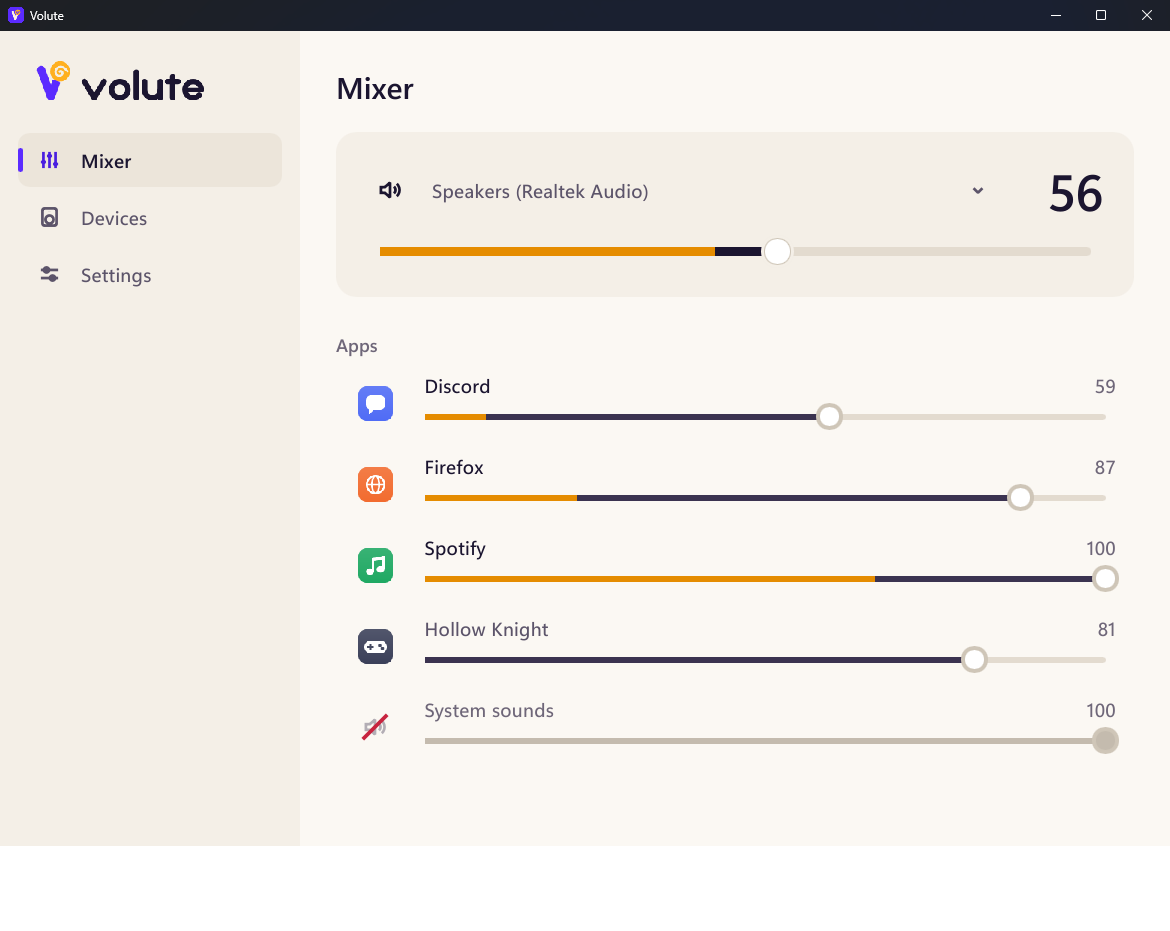
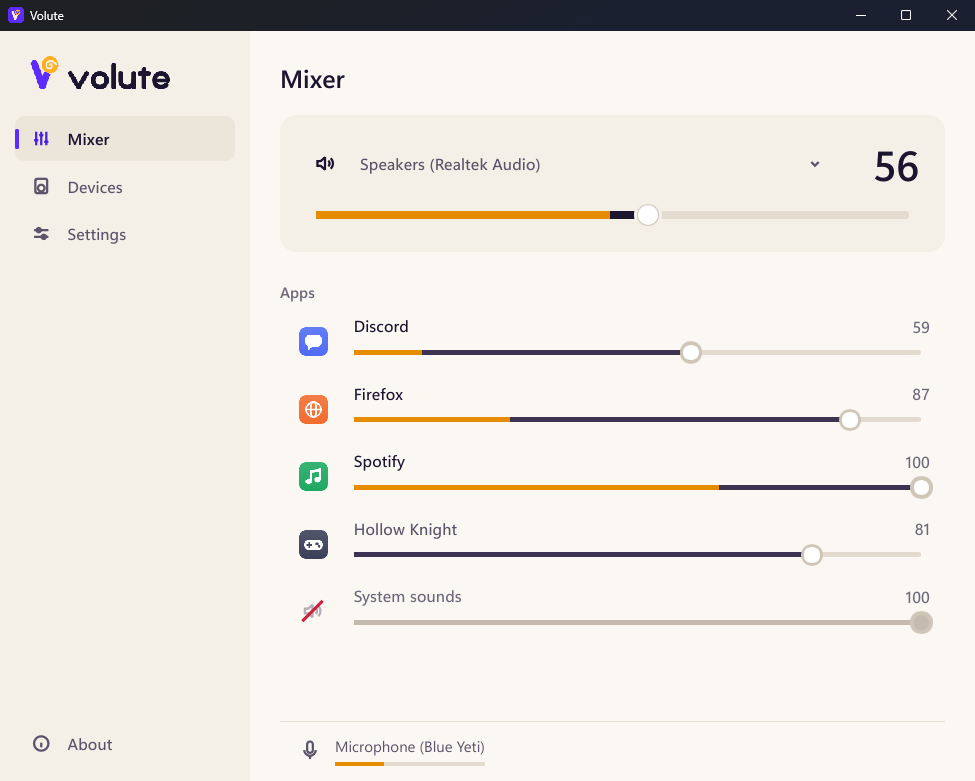
docs: design audit with a before/after board, performance audit, architecture and agent guide brought up to date; screenshots of the main window retaken at 1.25x, whole; the size figure on the site and README is the installer's 6.4 MB

diff --git a/index.html b/index.html
@@ -111,7 +111,7 @@
           </article>
         </div>
         <figure class="wide-shot">
-          <img class="shot" src="assets/main-light.png" width="1170" height="931" alt="La fenêtre principale de Volute en thème clair : un rail avec Mélangeur, Périphériques, Réglages et À propos, et la vue du mélangeur." loading="lazy">
+          <img class="shot" src="assets/main-light.png" width="975" height="781" alt="La fenêtre principale de Volute en thème clair : un rail avec Mélangeur, Périphériques, Réglages et À propos, et la vue du mélangeur." loading="lazy">
           <figcaption class="caption">La fenêtre principale : tous les périphériques, les réglages, en clair ou en sombre.</figcaption>
         </figure>
       </div>
@@ -126,7 +126,7 @@
           <div><dt>0,000&nbsp;%</dt><dd>de processeur en attente dans la zone de notification</dd></div>
           <div><dt>4&nbsp;Mo</dt><dd>de mémoire en attente</dd></div>
           <div><dt>0,12&nbsp;ms</dt><dd>pour appliquer un volume</dd></div>
-          <div><dt>6&nbsp;Mo</dt><dd>un seul exécutable, rien d'autre</dd></div>
+          <div><dt>6,4&nbsp;Mo</dt><dd>l'installateur, sans rien d'autre à installer</dd></div>
         </dl>
         <p class="note">Mesuré avec <code>cargo xtask bench-overhead</code> sur la machine de l'auteur. Mélangeur ouvert, avec les niveaux qui bougent : 2 à 4 % d'un cœur. Les chiffres et la méthode sont dans le <a href="https://github.com/EvanPluchart/volute/blob/main/docs/ARCHITECTURE.md">document d'architecture</a>.</p>
       </div>

diff --git a/en/index.html b/en/index.html
@@ -111,7 +111,7 @@
           </article>
         </div>
         <figure class="wide-shot">
-          <img class="shot" src="../assets/en/main-light.png" width="1170" height="931" alt="Volute's main window in the light theme: a rail with Mixer, Devices, Settings and About, and the mixer view." loading="lazy">
+          <img class="shot" src="../assets/en/main-light.png" width="975" height="781" alt="Volute's main window in the light theme: a rail with Mixer, Devices, Settings and About, and the mixer view." loading="lazy">
           <figcaption class="caption">The main window: every device, the settings, in light or dark.</figcaption>
         </figure>
       </div>
@@ -126,7 +126,7 @@
           <div><dt>0.000&nbsp;%</dt><dd>CPU while it waits in the notification area</dd></div>
           <div><dt>4&nbsp;MB</dt><dd>of memory while it waits</dd></div>
           <div><dt>0.12&nbsp;ms</dt><dd>to apply a volume</dd></div>
-          <div><dt>6&nbsp;MB</dt><dd>one executable, nothing else</dd></div>
+          <div><dt>6.4&nbsp;MB</dt><dd>the installer, with nothing else to install</dd></div>
         </dl>
         <p class="note">Measured with <code>cargo xtask bench-overhead</code> on the author's machine. With the mixer open and the meters moving: 2 to 4 % of one core. The figures and the method are in the <a href="https://github.com/EvanPluchart/volute/blob/main/docs/ARCHITECTURE.md">architecture document</a>.</p>
       </div>

diff --git a/README.md b/README.md
@@ -5,7 +5,7 @@ The static page for GitHub Pages, in French (`index.html`) and English (`en/inde
 * **Design:** `DESIGN.md`; the brand is in `../docs/BRAND.md`.
 * **Screenshots:** the real app on its demo backend, never the author's own apps:
   * flyouts at 2x: `SLINT_SCALE_FACTOR=2 volute --mock --no-settings --dark --flyout=center --lang=fr|en` (add `--offer-update=0.2.0` for the update line);
-  * the main window at 1.5x: `SLINT_SCALE_FACTOR=1.5 volute --mock --no-settings --no-tray --light --open --lang=fr|en`, cropped of its 8 px invisible border;
+  * the main window at 1.25x: `SLINT_SCALE_FACTOR=1.25 volute --mock --no-settings --no-tray --light --open --lang=fr|en`, cropped of its 8 px invisible border;
   * captured with PrintWindow (`docs/ux` has the scripts' description).
 * **Social images:** `assets/og.png` and `assets/og-en.png`, from `assets/og-source.html#fr|#en` with headless Chrome at 1200 × 630.
 * **Publish** (decision 0011): once the repository is public, enable Pages with "GitHub Actions" as its source, then run the Pages workflow by hand (`.github/workflows/pages.yml`). The page expects `https://evanpluchart.github.io/volute/`; every asset path is relative.
